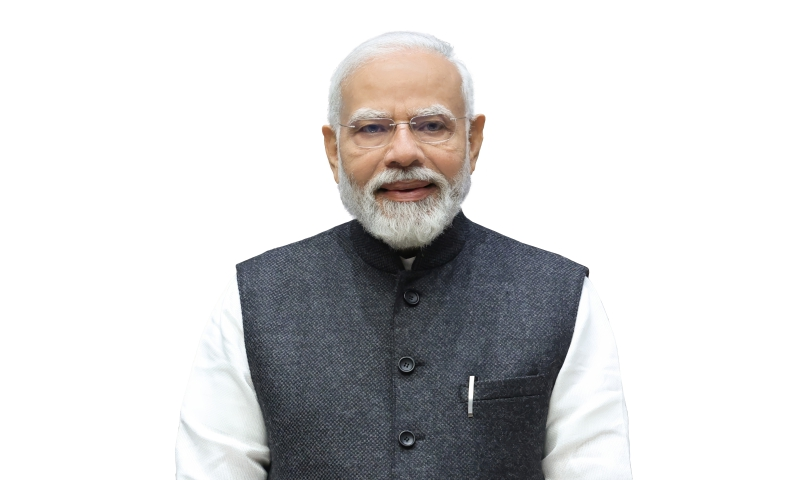
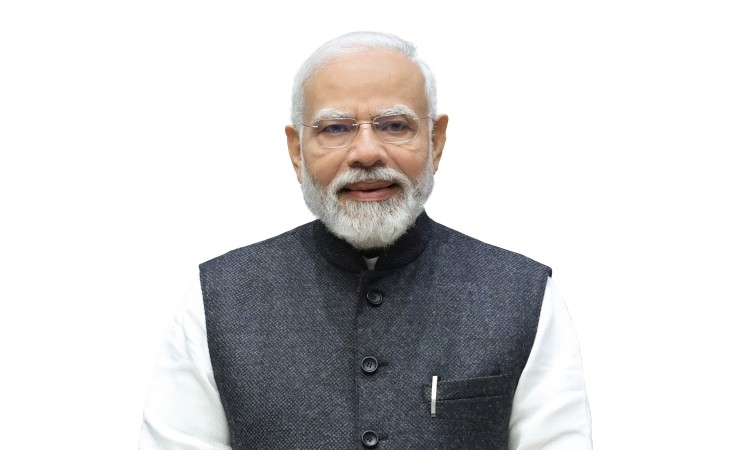
Modi ji pic and other changes

diff --git a/src/components/site/VideoHero.tsx b/src/components/site/VideoHero.tsx
@@ -77,18 +77,27 @@ const HERO_QUICK_ACTIONS: {
 ];
 
 /** Home-tab background images (auto-rotate + manual controls). */
-const HERO_BG_SLIDES: { src: string; altEn: string; altMr: string; objectPos: string }[] = [
+const HERO_BG_SLIDES: {
+  src: string;
+  altEn: string;
+  altMr: string;
+  objectPos: string;
+  /** Square Deogiri uses contain so the full fort isn't cropped by the wide hero. */
+  fit: "cover" | "contain";
+}[] = [
   {
     src: heroEllora,
     altEn: "Kailasa Temple, Ellora Caves — Chhatrapati Sambhajinagar",
     altMr: "कैलास मंदिर, वेरूळ लेणी — छत्रपती संभाजीनगर",
     objectPos: "object-[center_22%]",
+    fit: "cover",
   },
   {
     src: heroDeogiri,
     altEn: "Daulatabad Fort (Deogiri) — Chhatrapati Sambhajinagar",
     altMr: "दौलताबाद किल्ला (देवगिरी) — छत्रपती संभाजीनगर",
     objectPos: "object-center",
+    fit: "contain",
   },
 ];
 
@@ -236,14 +245,14 @@ export const VideoHero = () => {
             if (!e.currentTarget.contains(e.relatedTarget as Node)) setHeroPaused(false);
           }}
         >
-          <div className="absolute inset-0 w-full h-full">
+          <div className="absolute inset-0 w-full h-full bg-[#0b1f3a]">
             {HERO_BG_SLIDES.map((bg, i) => (
               <img
                 key={bg.src}
                 src={bg.src}
                 alt={i === heroIdx ? (en ? bg.altEn : bg.altMr) : ""}
                 aria-hidden={i !== heroIdx}
-                className={`absolute inset-0 w-full h-full object-cover ${bg.objectPos} transition-opacity duration-700 ease-in-out ${
+                className={`absolute inset-0 w-full h-full ${bg.fit === "contain" ? "object-contain" : "object-cover"} ${bg.objectPos} transition-opacity duration-700 ease-in-out ${
                   i === heroIdx ? "opacity-100" : "opacity-0"
                 }`}
               />
